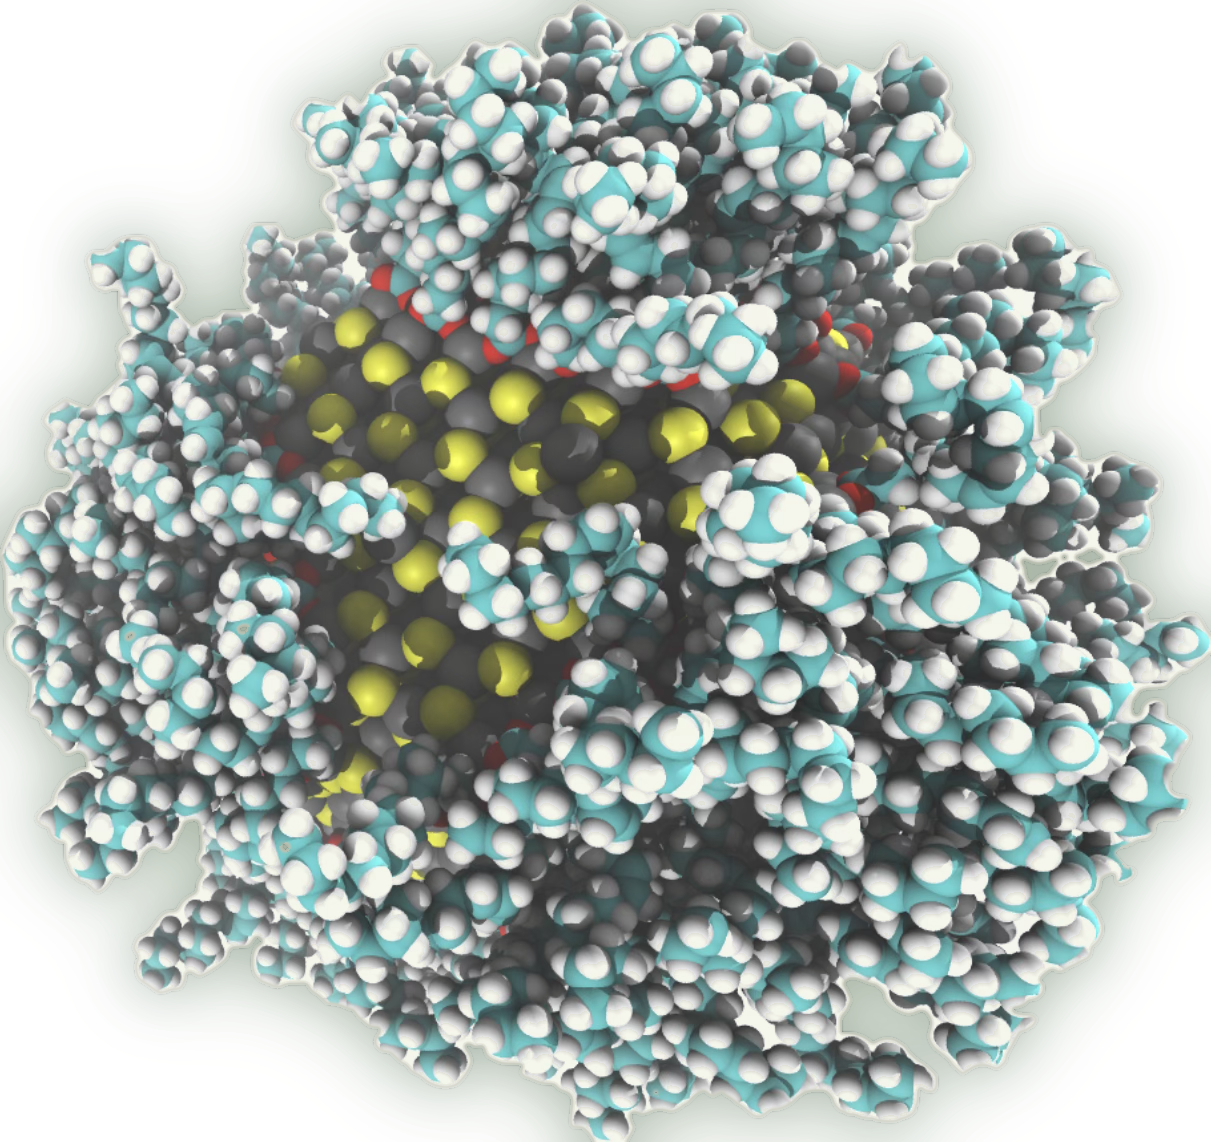
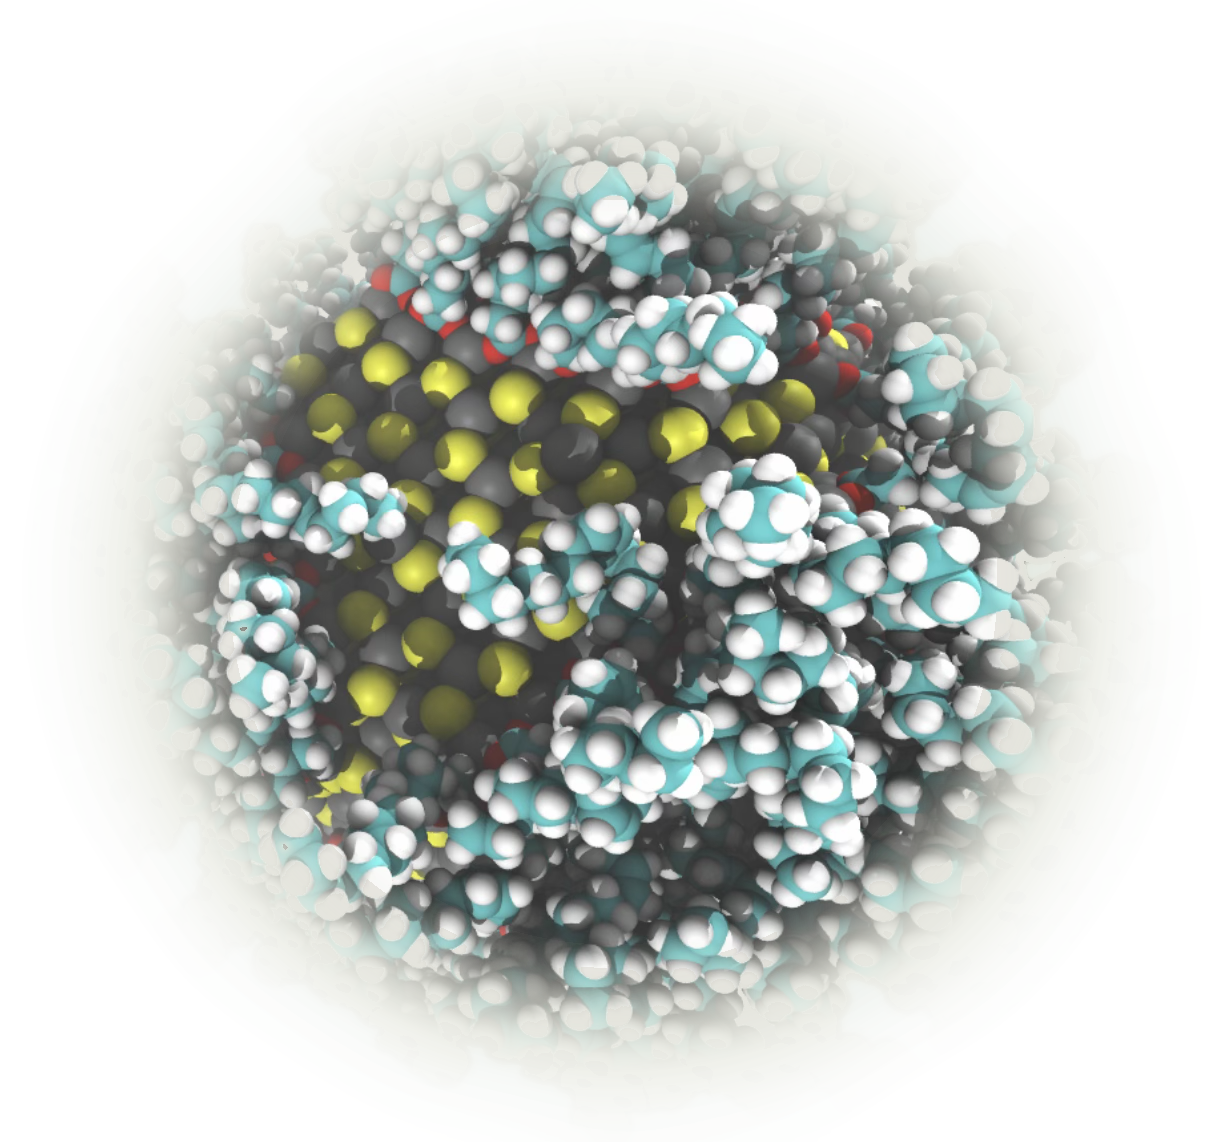
Dissolve hero QD further; show group size; reorder homepage sections
Feather the title QD with a radial dissolve into the cream backdrop, replace the BCMaterials intro metric with people count, and put Software → People → Publications after Research (nav matches).

diff --git a/src/routes/+page.svelte b/src/routes/+page.svelte
@@ -100,8 +100,8 @@
 			<span>Active software and platform projects</span>
 		</div>
 		<div class="reveal" use:reveal>
-			<span class="metric">BCMaterials</span>
-			<span>UPV/EHU Science Park, Leioa</span>
+			<span class="metric">{people.length}</span>
+			<span>People in the group</span>
 		</div>
 	</section>
 
@@ -151,6 +151,48 @@
 						</ul>
 					</div>
 				</article>
+			{/each}
+		</div>
+	</section>
+
+	<section class="section two-column" id="software">
+		<div class="reveal" use:reveal>
+			<p class="eyebrow">Reusable science</p>
+			<h2>Software and resources</h2>
+			<p>
+				Open platforms and computational tools developed by the group for model construction,
+				force-field training, excited-state analysis, and large-scale simulations.
+			</p>
+		</div>
+		<div class="software-stack">
+			{#each software as item, index}
+				<a
+					class="software-card reveal"
+					use:reveal
+					style="transition-delay: {Math.min(index, 6) * 70}ms"
+					href={item.link}
+					target="_blank"
+					rel="noreferrer"
+				>
+					<div class="software-head">
+						<span class="software-logo">
+							<span aria-hidden="true">{item.name.slice(0, 1)}</span>
+							{#if item.logo}
+								<img src={asset(item.logo)} alt={`${item.name} logo`} loading="lazy" onerror={hideMissing} />
+							{/if}
+						</span>
+						<div>
+							<span>{item.linkLabel}</span>
+							<h3>{item.name}</h3>
+						</div>
+					</div>
+					<p>{item.description}</p>
+					<ul class="tag-list" aria-label={`${item.name} capabilities`}>
+						{#each item.tags as tag}
+							<li>{tag}</li>
+						{/each}
+					</ul>
+				</a>
 			{/each}
 		</div>
 	</section>
@@ -241,48 +283,6 @@
 			{/each}
 		</div>
 		<a class="publication-link" href={resolve('/publications/')}>View all {allPublications.length} publications</a>
-	</section>
-
-	<section class="section two-column" id="software">
-		<div class="reveal" use:reveal>
-			<p class="eyebrow">Reusable science</p>
-			<h2>Software and resources</h2>
-			<p>
-				Open platforms and computational tools developed by the group for model construction,
-				force-field training, excited-state analysis, and large-scale simulations.
-			</p>
-		</div>
-		<div class="software-stack">
-			{#each software as item, index}
-				<a
-					class="software-card reveal"
-					use:reveal
-					style="transition-delay: {Math.min(index, 6) * 70}ms"
-					href={item.link}
-					target="_blank"
-					rel="noreferrer"
-				>
-					<div class="software-head">
-						<span class="software-logo">
-							<span aria-hidden="true">{item.name.slice(0, 1)}</span>
-							{#if item.logo}
-								<img src={asset(item.logo)} alt={`${item.name} logo`} loading="lazy" onerror={hideMissing} />
-							{/if}
-						</span>
-						<div>
-							<span>{item.linkLabel}</span>
-							<h3>{item.name}</h3>
-						</div>
-					</div>
-					<p>{item.description}</p>
-					<ul class="tag-list" aria-label={`${item.name} capabilities`}>
-						{#each item.tags as tag}
-							<li>{tag}</li>
-						{/each}
-					</ul>
-				</a>
-			{/each}
-		</div>
 	</section>
 
 	<section class="section two-column news-contact">
@@ -406,7 +406,9 @@
 		height: auto;
 		max-height: min(520px, 70vh);
 		object-fit: contain;
-		filter: drop-shadow(0 18px 36px rgba(40, 55, 45, 0.12));
+		filter: drop-shadow(0 12px 28px rgba(40, 55, 45, 0.08));
+		-webkit-mask-image: radial-gradient(ellipse 72% 70% at 50% 48%, #000 42%, transparent 78%);
+		mask-image: radial-gradient(ellipse 72% 70% at 50% 48%, #000 42%, transparent 78%);
 	}
 
 	.eyebrow {

diff --git a/src/lib/components/SiteHeader.svelte b/src/lib/components/SiteHeader.svelte
@@ -8,9 +8,9 @@
 	const home = resolve('/');
 	const navItems = [
 		{ href: `${home}#research`, label: 'Research' },
+		{ href: `${home}#software`, label: 'Software' },
 		{ href: `${home}#people`, label: 'People' },
 		{ href: resolve('/publications/'), label: 'Publications', page: 'publications' },
-		{ href: `${home}#software`, label: 'Software' },
 		{ href: `${home}#contact`, label: 'Contact' }
 	];
 
